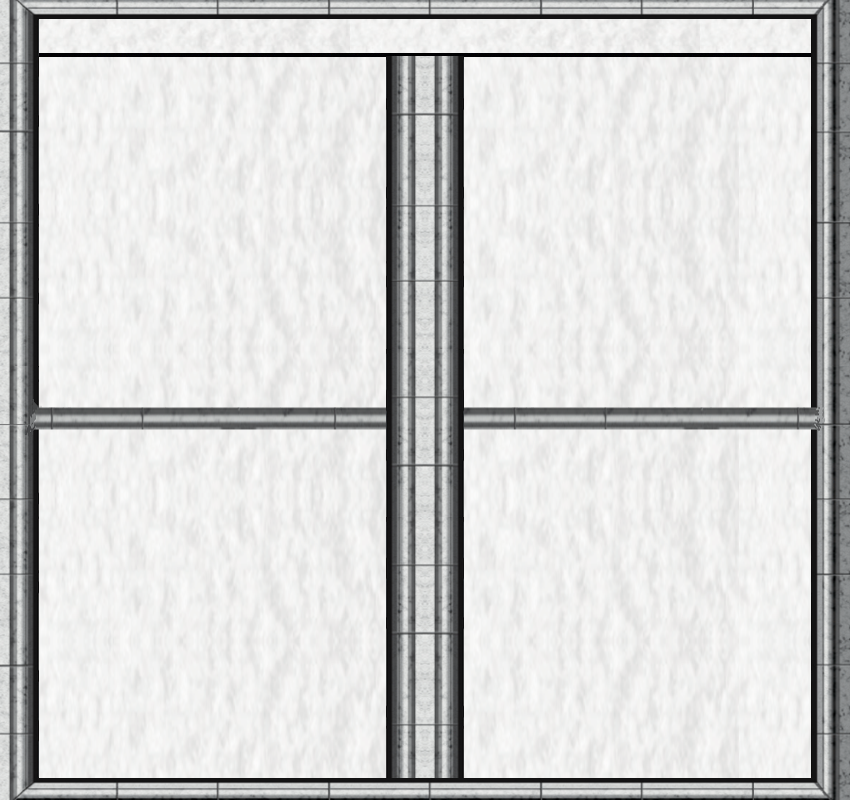
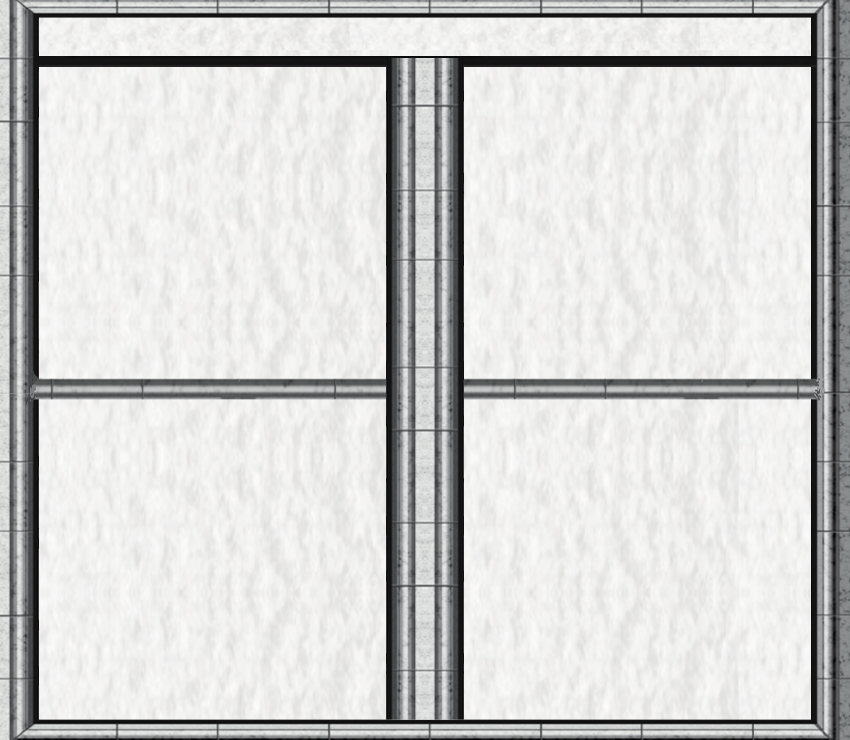
gestione scelta carte schema

Changed region(s): [[0.0306, 0.0622, 0.9788, 0.0932], [0.5506, 0.4973, 0.9788, 0.5595], [0.0306, 0.4973, 0.4588, 0.5595]]

diff --git a/src/main/java/it/polimi/se2018/view/gui/views/GUIChooseSchemeCardView.java b/src/main/java/it/polimi/se2018/view/gui/views/GUIChooseSchemeCardView.java
@@ -27,7 +27,7 @@ public class GUIChooseSchemeCardView extends GUIView
 
     public GUIChooseSchemeCardView(GUI gui, Board[] schemeCards)
     {
-        super(gui, 850,800);
+        super(gui, 850,740);
 
         this.schemeCard=schemeCards;
         guiBoard = new GUIElementBoard[4];
@@ -44,13 +44,13 @@ public class GUIChooseSchemeCardView extends GUIView
 
         backgroundLabel.setLayout(new BoxLayout(backgroundLabel, BoxLayout.Y_AXIS));
 
-        backgroundLabel.add(Box.createVerticalStrut(25));
+        backgroundLabel.add(Box.createVerticalStrut(28));
 
         mainTextLabel = new JLabel("Choose a scheme card to play with.", JLabel.CENTER);
         mainTextLabel.setAlignmentX(Component.CENTER_ALIGNMENT);
         backgroundLabel.add(mainTextLabel);
 
-        backgroundLabel.add(Box.createVerticalStrut(15));
+        backgroundLabel.add(Box.createVerticalStrut(12));
 
         Container boxContainer = new Container();
         boxContainer.setLayout(new GridLayout(2,2));
